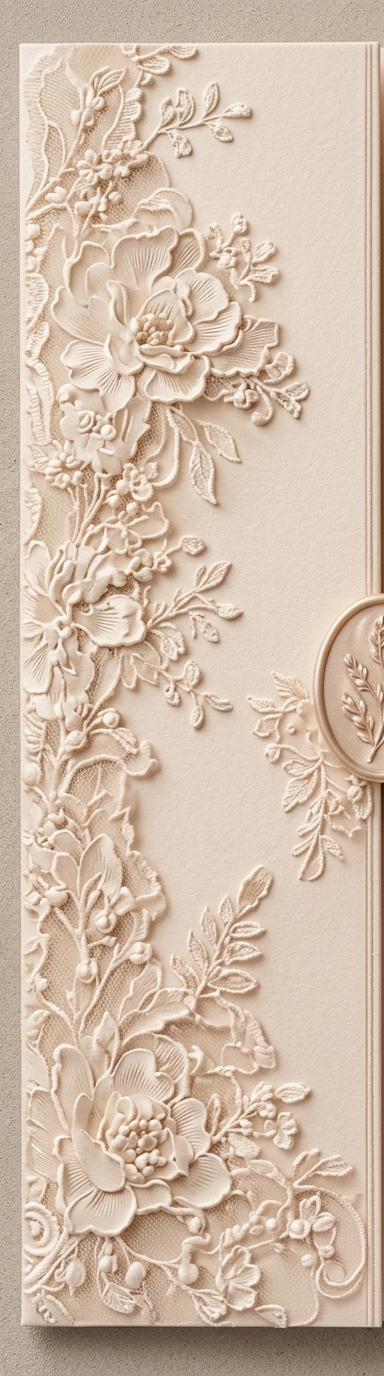
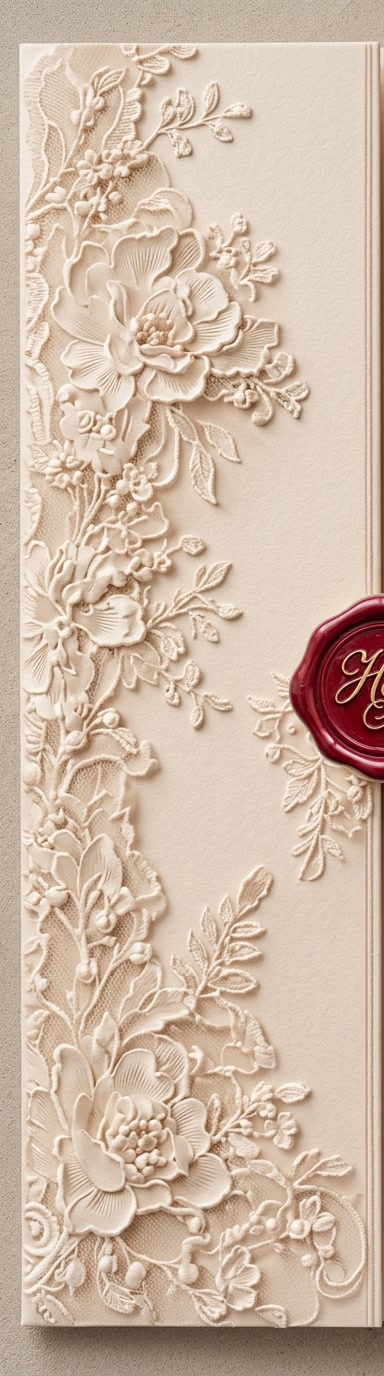
Apply option1-gold-monogram red wax seal to the gatefold
Replaces the gold-seal gatefold-left.jpg and gate-seal-right.png with
the new crimson wax + gold 'H&A' monogram design from red-seal-assets/,
and updates the .gate-seal aspect ratio (98x196 vs the old 76x184) to
match. Verified the seal halves still align seamlessly at the seam,
closed and mid-swing, at two viewport widths.

Changed region(s): [[0.75, 0.4062, 1.0, 0.5938]]

diff --git a/css/style.css b/css/style.css
@@ -239,8 +239,8 @@ section {
     top: 50%;
     left: 100%;
     transform: translateY(-50%);
-    width: calc(100dvh * (76 / 1376));
-    height: calc(100dvh * (184 / 1376));
+    width: calc(100dvh * (98 / 1376));
+    height: calc(100dvh * (196 / 1376));
     background: url('../assets/images/gate-seal-right.png') left center / 100% 100% no-repeat;
     pointer-events: none;
     z-index: 10;
